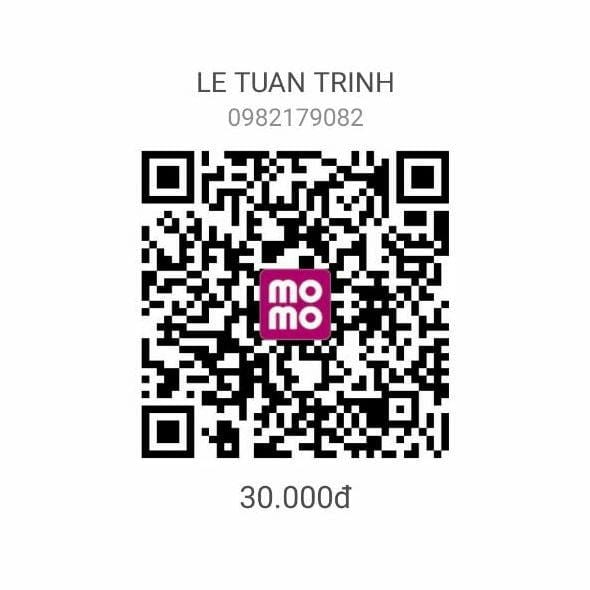
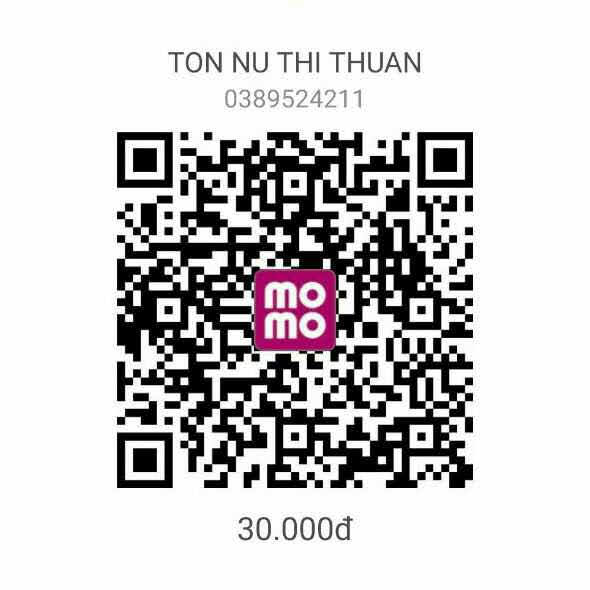
VIP

Changed region(s): [[0.1831, 0.0915, 0.8237, 0.9153]]

diff --git a/resources/views/web/registerVIP.blade.php b/resources/views/web/registerVIP.blade.php
@@ -37,8 +37,8 @@ $titleMeta = 'Đăng ký VIP Chia Sẻ Nhạc';
                     </p>
                     <img style="width: 38%; float: right; display: inline-block;" src="/imgs/qr-code-vip-csn.jpg">
                     <div style="font-family: 'SFProDisplay-Regular'; color: #333; font-size: 16px; width: 60%;display: inline-block; float: left; padding-top: 20px;">
-                        <span style="font-size: 18px;">Bạn vui lòng chuyển tiền vào số Momo: <b>0982179082</b></span><br>
-                        <span style="font-size: 18px;">- Tên chủ tài khoản: LÊ TUẤN TRÌNH</span><br>
+                        <span style="font-size: 18px;">Bạn vui lòng chuyển tiền vào số Momo: <b>038.952.4211</b></span><br>
+                        <span style="font-size: 18px;">- Tên chủ tài khoản: TON NU THI THUAN</span><br>
                         <span style="font-size: 18px;">- Lời chúc: <span style="font-weight: 700; color: red">CSN &nbsp; {{Auth::user()->user_id}}</span></span><br>
                         <span style="font-size: 18px;">- Số tiền: 30.000 VNĐ</span><br>
                         * Vui lòng vui lòng không gọi qua số điện thoại này, CSN sẽ chỉ hỗ trợ thắc mắc trong khung <a target="_blank" href="/user/{{Auth::user()->id}}?tab=message_csn">liên hệ</a> bên dưới.<br>
